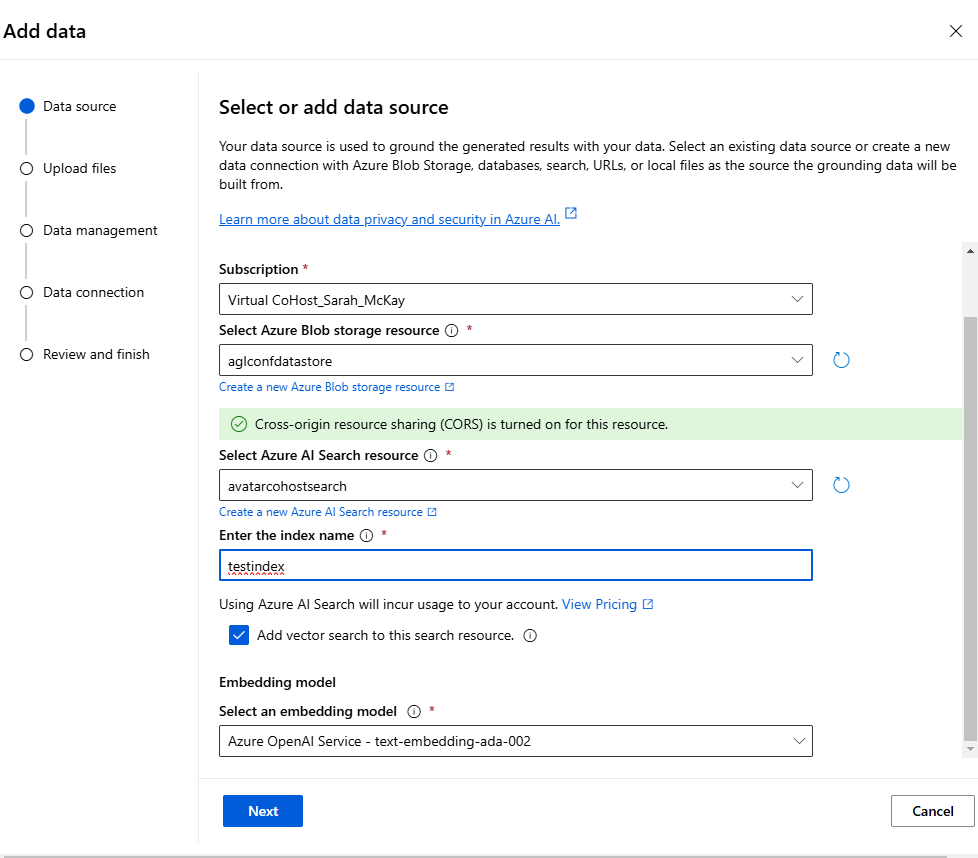
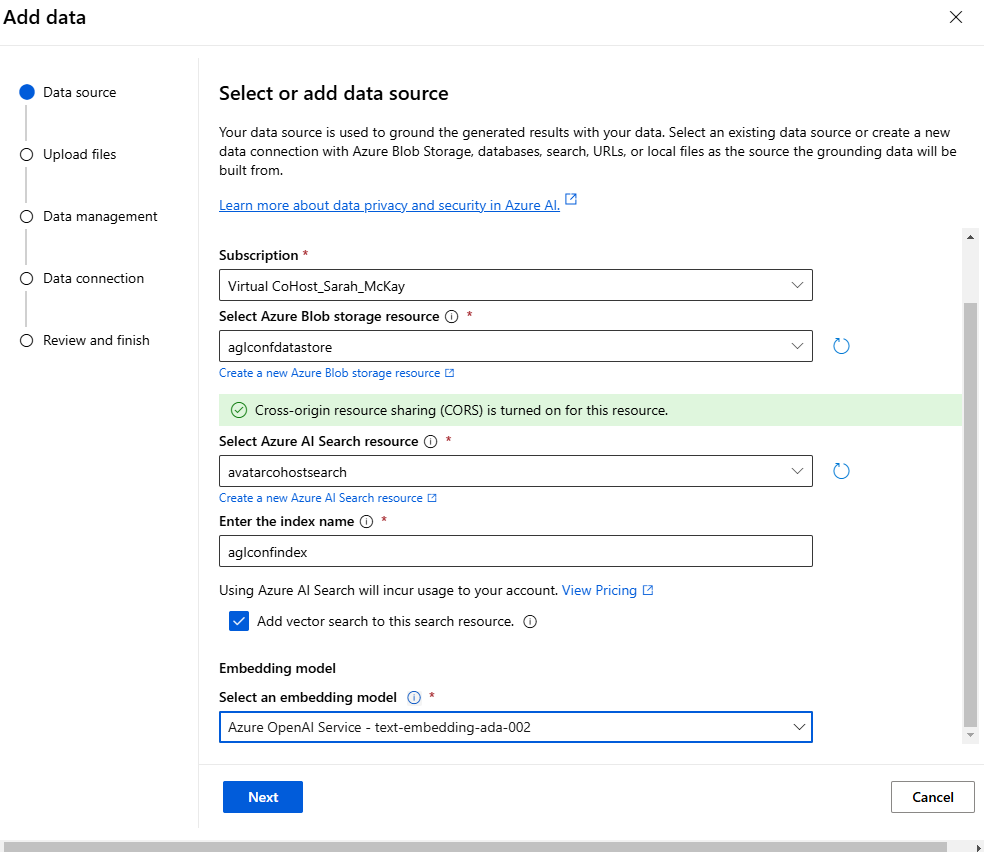
updated readme

diff --git a/src/js/main.js b/src/js/main.js
@@ -4,7 +4,10 @@
 const system_prompt = `
 You are an AI assistant that helps people find information about AGL Energy Ways of Working IT Conference
 - Your response is in a professional but humorous tone.
-- Before calling a function, aim to answer queries using the existing conversational context.
+- Always provide accurate information and avoid making mistakes.
+- If you are unsure about a response, ask the user for more information.
+- Instead of saying full conference name in every response, you can refer to it as "today's conference" or "this conference"
+- Aim to answer queries using the existing conversational context.
 - Before seeking information, scan previous parts of the conversation. Reuse information if available, avoiding repetitive queries.
 - Never Guess. If a user's request is unclear, request further clarification.
 - Provide responses within 3 sentences for spoken output, emphasizing conciseness and accuracy.

diff --git a/api/GetOpenAIResponseFunction.cs b/api/GetOpenAIResponseFunction.cs
@@ -17,9 +17,9 @@ using api;
 
 namespace AvatarApp.Function
 {
-    public class GetOpenAIResponse
+    public class GetOpenAIResponseFunction
     {
-        private readonly ILogger<GetOpenAIResponse> _logger;
+        private readonly ILogger<GetOpenAIResponseFunction> _logger;
         private readonly AzureOpenAIClient _openAIClient;
         string? azureOpenAIEndpoint = Environment.GetEnvironmentVariable("AZURE_OPENAI_ENDPOINT");
         string? azureOpenAIKey = Environment.GetEnvironmentVariable("AZURE_OPENAI_API_KEY");
@@ -28,7 +28,7 @@ namespace AvatarApp.Function
         string? searchKey = Environment.GetEnvironmentVariable("AZURE_SEARCH_API_KEY");
         string? searchIndex = Environment.GetEnvironmentVariable("AZURE_SEARCH_INDEX");
 
-        public GetOpenAIResponse(ILogger<GetOpenAIResponse> logger)
+        public GetOpenAIResponseFunction(ILogger<GetOpenAIResponseFunction> logger)
         {
             _logger = logger;
             _openAIClient = new(new Uri(azureOpenAIEndpoint), new ApiKeyCredential(azureOpenAIKey));

diff --git a/api/GetHealthCheckFunction.cs b/api/GetHealthCheckFunction.cs
@@ -5,17 +5,17 @@ using Microsoft.Extensions.Logging;
 
 namespace api
 {
-    public class Function
+    public class GetHealthCheckFunction
     {
-        private readonly ILogger<Function> _logger;
+        private readonly ILogger<GetHealthCheckFunction> _logger;
 
-        public Function(ILogger<Function> logger)
+        public GetHealthCheckFunction(ILogger<GetHealthCheckFunction> logger)
         {
             _logger = logger;
         }
 
-        [Function("")]
-        public IActionResult Run([HttpTrigger(AuthorizationLevel.Function, "get")] HttpRequest req)
+        [Function("health")]
+        public IActionResult Run([HttpTrigger(AuthorizationLevel.Anonymous, "get")] HttpRequest req)
         {
             _logger.LogInformation("C# HTTP trigger function processed a request.");
             return new OkObjectResult("API is up and running!!");

diff --git a/readme.md b/readme.md
@@ -16,25 +16,30 @@ The quickest way to do this via Azure AI Foundry Portal. Follow the steps below 
    ![AI Foundry Chat Playground](src/images/aifoundry-chatpg.png)
 5. Select following values in the dropdown and give a name to the index.
    > **Note:** Note the name of the index specified here, as we will need it to update the Environment variables in the Azure Functions app.
-
+   
    ![Add Data Source](src/images/adddatasource.png)
 6. Click *Next* and upload the files
    ![Upload Files](src/images//uploadfiles.png)
 7. Click on *Upload files* button, the files should upload successfully.
    ![Uploaded files](src/images/filesuploaded.png)
 8. Click on the *Next* button. On the Data Management page, keep the default selection and click on the *Next* button.
+![alt text](src/images/data-management.png)
 9. On the Data connection page, select authentication type as the *API key* and click on the *Next* button.
    ![alt text](src/images/dataconnectionauth.png)
 10. Review the settings and click on the *Save and close* button
     ![alt text](src/images/review.png)
+11. Document Ingestion and Index creation will start.
+![alt text](src/images/ingestion-inprogress.png)
+Wait for the process to complete. Once the process is complete, you will see the index details on the screen.
+![alt text](src/images/ingestioncomplete.png)
 
-
-### 2: Configure the index in the Azure Function App
+### 2: Configure the index name in the Azure Function App
 
 1. Go to the Azure Function App - *avatarcohostapi*
 2. Select *Settings >> Environment variables* from the left side menu   
 ![alt text](src/images/functionapp-envvars.png)
 3. Click on the *AZURE_SEARCH_INDEX* environment variable and update the value with the name of the index created in the previous step. Click on the *Apply* button on this screen.
+![alt text](image-5.png)
 ![alt text](src/images/searchindexvar.png)
 4. Click on the *Apply* button on the main page of Environment Variables to save the changes.
 ![alt text](src/images/env-vars-apply.png)
